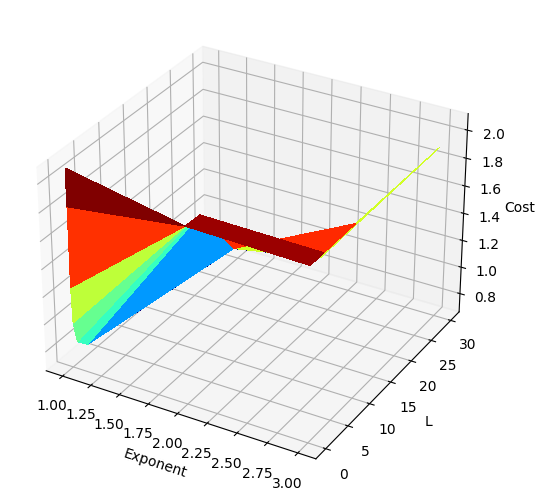
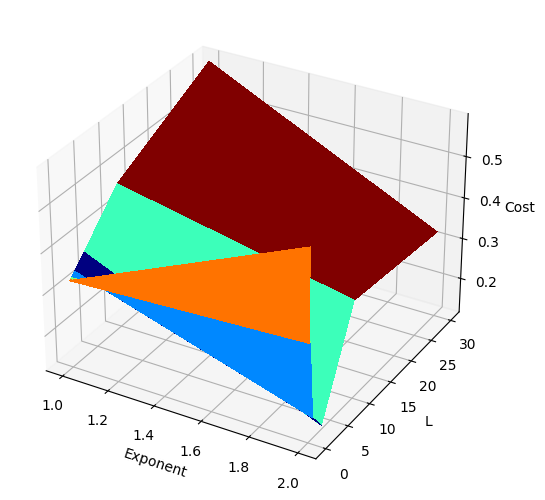
Ya hay resultados

diff --git a/Proyecto/src/evaluateSVM.py b/Proyecto/src/evaluateSVM.py
@@ -33,11 +33,6 @@ def evaluateSVM(x, xVal, y, yVal):
     resSVM = np.empty_like(resAcc, dtype=object)
     threads = np.empty_like(resAcc, dtype=object)
 
-    bestAcc = 0
-    bestC = -1
-    bestSigma = -1
-    bestSVM = {}
-
     for i in np.arange(numCs):
         for j in np.arange(numSigmas):
             threads[i,j] = ThreadWithReturnValue(target=threadMethod, args=(x, xVal, y, yVal, cs[i], sigmas[j],))
@@ -49,7 +44,6 @@ def evaluateSVM(x, xVal, y, yVal):
     
     bestAcc = np.max(resAcc)
     w = np.where(resAcc == bestAcc)
-    print(w)
     bestC = cs[w[0][0]]
     bestSigma = sigmas[w[1][0]]
     bestSVM = resSVM[w[0][0],w[1][0]]
@@ -89,3 +83,51 @@ def evaluateSVM(x, xVal, y, yVal):
     plt.close()
 
     return bestSVM, bestAcc, bestC, bestSigma
+
+def threadMethod(x, xVal, y, yVal, c):
+    print('Testing c ' + str(c))
+    s = svm.SVC(kernel='linear', C=c)
+    s.fit(x,y)
+
+    print('Completed c ' + str(c))
+    return s, accuracy_score(yVal, s.predict(xVal))
+
+def evaluateSVMLinear():
+    startTime = time.time()
+
+    cs = np.array([0.01, 0.03, 0.1, 0.3, 1, 3, 10, 30])
+
+    numCs = cs.shape[0]
+
+    resAcc = np.zeros(numCs)
+    resSVM = np.empty_like(resAcc, dtype=object)
+    threads = np.empty_like(resAcc, dtype=object)
+
+    for i in np.arange(numCs):
+        threads[i] = ThreadWithReturnValue(target=threadMethod, args=(x, xVal, y, yVal, cs[i], sigmas[j],))
+        threads[i].start()
+
+    for i in np.arange(numCs):
+        resSVM[i], resAcc[i] = threads[i].join()
+    
+    bestAcc = np.max(resAcc)
+    w = np.where(resAcc == bestAcc)
+    bestC = cs[w[0]]
+    bestSVM = resSVM[w[0]]
+
+    print()
+    print("Best accuracy: " + str(bestAcc))
+    print("Best C: " + str(bestC))
+
+    endTime = time.time()
+    print('Seconds elapsed of test: ' + str(endTime - startTime))
+
+    plt.plot(cs, resAcc)
+    plt.xscale('log')
+    plt.xlabel('C')
+    plt.ylabel('Accuracy')
+    plt.scatter(bestC, bestAcc, marker='x', color='r')
+    plt.savefig('../Results/SVM/SVM_LIN.png', bbox_inches='tight')
+    plt.close()
+
+    return bestSVM, bestAcc, bestC

diff --git a/Proyecto/src/main.py b/Proyecto/src/main.py
@@ -7,7 +7,7 @@ from sklearn.metrics import accuracy_score
 from pandas.io.parsers import read_csv
 
 from prepareData import analyzeData, prepareData
-from evaluateSVM import evaluateSVM
+from evaluateSVM import evaluateSVM, evaluateSVMLinear
 from evaluateNeuronal import evalNN, getNumAcertadosNN
 from evaluateLogistic import evalLogisticReg, getNumAcertadosLog
 
@@ -119,6 +119,14 @@ def evalSVM(xTrain, xVal, xTest, yTrain, yVal, yTest):
 
     return accuracy, acc, c, sig
 
+def evalSVMLinear(xTrain, xVal, xTest, yTrain, yVal, yTest):
+    print("\nCOMENCING TRAINING OF SVM LINEAR\n")
+
+    s, acc, c = evaluateSVMLinear(xTrain, xVal, yTrain, yVal)
+    accuracy = accuracy_score(yTest, s.predict(xTest)) * 100
+    print('Accuracy over Test sample: ' + str(accuracy) + '%')
+    return accuracy, acc, c
+
 def createDataSets(x, y, m, trainPerc, valPerc, testPerc):
     if(trainPerc + valPerc + testPerc > 1.0):
         print("ERROR: Percentages given not valid")
@@ -161,6 +169,11 @@ def main():
     trainPerc = 0.2
     valPerc = 0.2
     testPerc = 0.2
+
+    # 0.2 0.2 0.2
+    # Seconds taken for the evaluation: 8767.091146945953
+    # Minutes taken for the evaluation: 146.11818578243256
+    # Hours taken for the evaluation: 2.4353030963738758
 
     xTrain, yTrain, xVal, yVal, xTest, yTest = createDataSets(x, y, m, trainPerc, valPerc, testPerc)
 

diff --git a/Proyecto/src/evaluateLogistic.py b/Proyecto/src/evaluateLogistic.py
@@ -12,7 +12,7 @@ import time
 from threadRetVal import ThreadWithReturnValue
 
 def sigmoide(z):
-    return (1 / (1 + np.exp(-z))) + 1e-9
+    return (1 / (1 + np.exp(-z)))
 
 def coste(thetas, x, y):
     h = sigmoide(np.dot(x, thetas))
@@ -36,7 +36,7 @@ def threadMethod(xPolTrain, xPolVal, yTrain, yVal, n, exp, l):
 
 def evalLogisticReg(xTrain, xVal, yTrain, yVal):
     ls = np.array([0.01, 0.03, 0.1, 0.3, 1.0, 3.0, 10.0, 30.0])
-    exps = np.array([1, 2, 3]) # 4 peta
+    exps = np.array([1, 2]) # 3 asks for too much memory
 
     numLs = ls.shape[0]
     numExps = exps.shape[0]
@@ -50,7 +50,7 @@ def evalLogisticReg(xTrain, xVal, yTrain, yVal):
 
     resCost = np.zeros(numExps * numLs).reshape(numExps, numLs)
     resThet = np.empty_like(resCost, dtype=object)
-    threads = np.empty_like(resCost, dtype=object)
+    threads = np.empty_like(resCost, dtype=object) # can't be used, for lack of storage
 
     for i in np.arange(numExps):
         xPolTrain = pol[i].fit_transform(xTrain)
@@ -66,6 +66,8 @@ def evalLogisticReg(xTrain, xVal, yTrain, yVal):
 
     bestCost = np.min(resCost)
     w = np.where(resCost == bestCost)
+    print(bestCost)
+    print(resCost)
     bestExpIndex = w[0][0]
     bestLIndex = w[1][0]
     bestTheta = resThet[bestExpIndex, bestLIndex]
